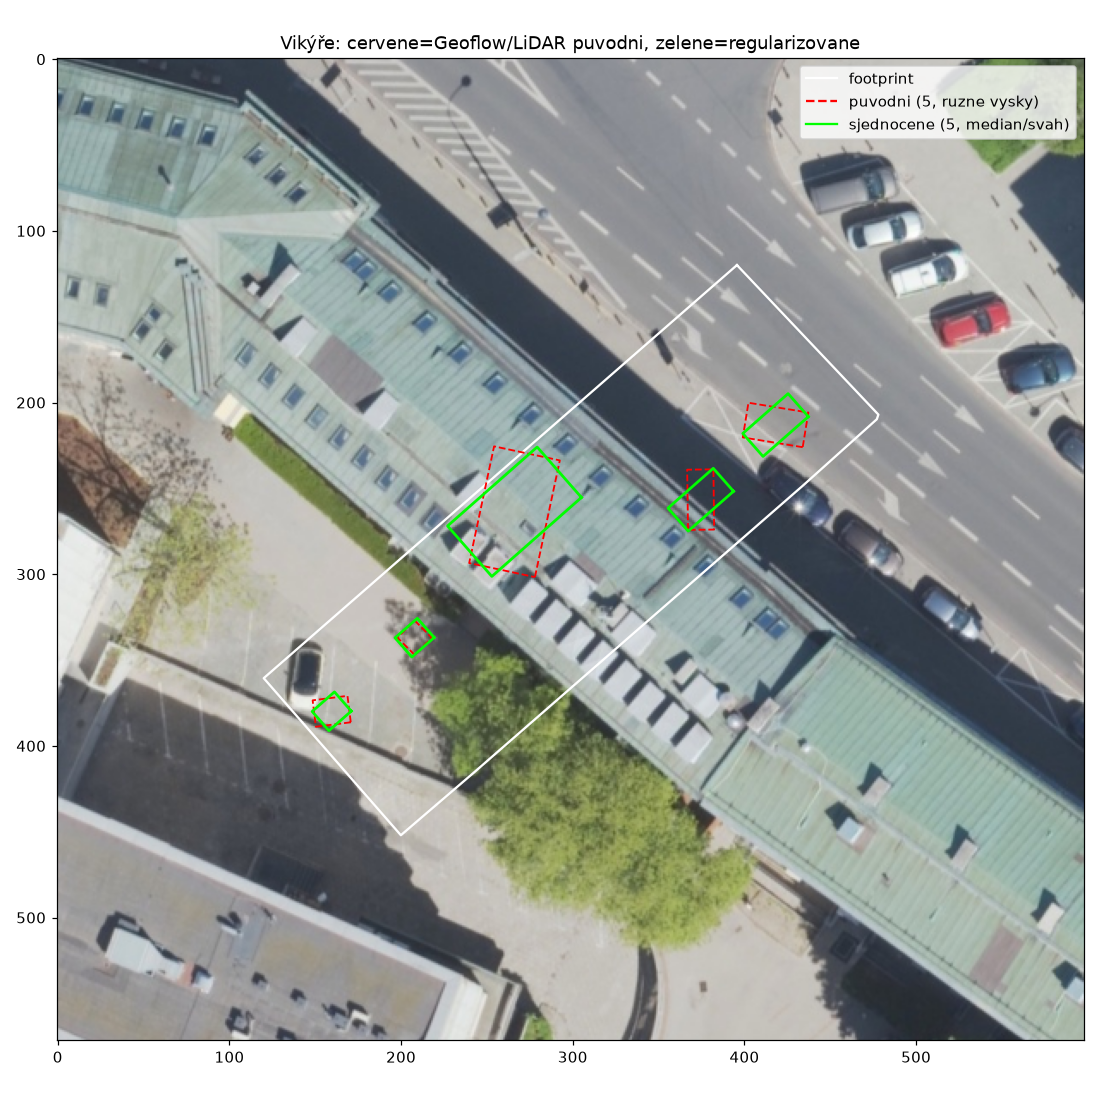
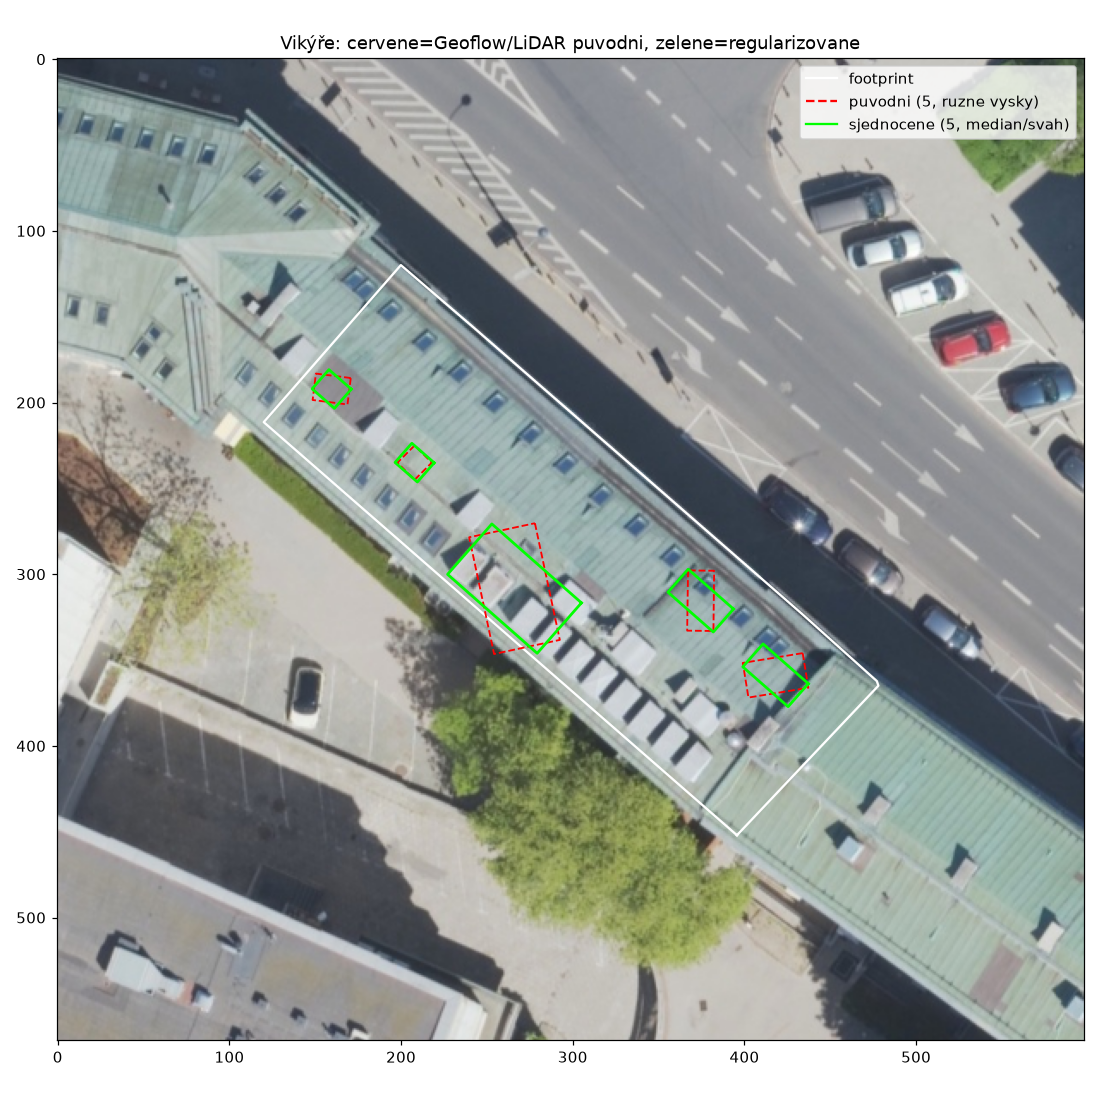
fix: mapovani ortofota radek 0 = sever (vegetace-dokaz), overlay sedi

diff --git a/scripts/pl_orto_fix.py b/scripts/pl_orto_fix.py
@@ -1,9 +1,10 @@
 # -*- coding: utf-8 -*-
-"""PL dum: overeni GeoTIFF okna + kontrola prekryvu s GT footprintem.
-Fakt: WMS TIFF ma stejny layout jako JPG (radek 0 = jih, NCC 0.9926).
-Mapovani C (overeno): sloupec u = vychod, radek v = sever odspodu.
-  E = E0 + u/W*SP, N = N0 + v/H*SP   (E0=636999, N0=488162, SP=200)
-Vystup: data_pl/warszawa_orto_200m.tfw (svetovy soubor, +y krok = jih-up),
+"""PL dum: sever-up GeoTIFF + kontrola prekryvu (OPRAVENO).
+WMS vraci radek 0 = SEVER (overeno vegetaci z LiDARu: tridy 3/4/5 sedi na
+zelenou jen pri v=(N1-N); puvodni predpoklad 'radek 0 = jih' byl spatne
+a druhe vlakno ho melo spatne taky (extent+origin jim patch zrcadlil).
+Mapovani: sloupec u=(E-E0)/SP*W, radek v=(N1-N)/SP*H (sever nahore).
+Vystup: data_pl/warszawa_orto_200m_north.tif (+ .tfw, standardni north-up),
         render/pl_orto_footprint.png (kontrola prekryvu).
 """
 import json
@@ -16,33 +17,34 @@ from PIL import Image
 from shapely import wkt
 
 FID = "ID-1465-38F62225-F3F5-F520-E053-CA2BA8C0BE14"
-E0, N0, SP = 636999.0, 488162.0, 200.0
+E0, N0, E1, N1, SP = 636999.0, 488162.0, 637199.0, 488362.0, 200.0
 
 img = np.array(Image.open("data_pl/warszawa_orto_200m.tif").convert("RGB"))
 H, W, _ = img.shape
+assert (W, H) == (2000, 2000), (W, H)
+north = img[::-1, :, :].copy()  # radek 0 = sever
+Image.fromarray(north).save("data_pl/warszawa_orto_200m_north.tif")
 px = SP / W
-assert W == H == 2000, (W, H)
-# south-up world file: radek roste k severu -> +y krok, pocatek = JZ roh
-with open("data_pl/warszawa_orto_200m.tfw", "w") as f:
-    f.write(f"{px:.6f}\n0.0\n0.0\n{px:.6f}\n{E0 + px/2:.3f}\n{N0 + px/2:.3f}\n")
-print("tfw zapsan (south-up, px=%.3f m)" % px)
+with open("data_pl/warszawa_orto_200m_north.tfw", "w") as f:
+    f.write(f"{px:.6f}\n0.0\n0.0\n{-px:.6f}\n{E0 + px/2:.3f}\n{N1 - px/2:.3f}\n")
+print("sever-up ulozen, px=%.3f m" % px)
 
 poly = wkt.loads(json.load(open("data_pl/warszawa_gt.json", encoding="utf-8"))[FID]["footprint_wkt"])
 x, y = poly.exterior.coords.xy
 u = (np.array(x) - E0) / SP * W
-v = (np.array(y) - N0) / SP * H
+v = (N1 - np.array(y)) / SP * H
 
 import os
-for f in ["data_pl/warszawa_orto_200m_north.tif", "data_pl/warszawa_orto_200m_north.tfw"]:
+for f in ["data_pl/warszawa_orto_200m.tfw"]:
     if os.path.exists(f):
         os.remove(f)
         print("smazan spatny soubor:", f)
 
 fig, a = plt.subplots(figsize=(10, 10))
-a.imshow(img)
+a.imshow(north)
 a.plot(u, v, "r-", lw=2, label="GT footprint")
 a.plot(u, v, "ro", ms=3)
-a.set_title("StandardResolution (radek 0 = jih) + GT footprint, mapovani C")
+a.set_title("StandardResolution sever-up + GT footprint (opraveno)")
 a.legend()
 plt.tight_layout()
 plt.savefig("render/pl_orto_footprint.png", dpi=110)

diff --git a/scripts/pl_dormers_fix.py b/scripts/pl_dormers_fix.py
@@ -25,7 +25,8 @@ from shapely import wkt
 from shapely.geometry import Point
 
 FID = "ID-1465-38F62225-F3F5-F520-E053-CA2BA8C0BE14"
-E0, N0, SP = 636999.0, 488162.0, 200.0  # okno TIFF/JPG, mapovani C
+E0, N0, E1, N1, SP = 636999.0, 488162.0, 637199.0, 488362.0, 200.0  # okno TIFF
+# WMS vraci radek 0 = SEVER (overeno vegetaci): v = (N1-N)/SP*H
 RNG = np.random.default_rng(7)
 
 
@@ -220,7 +221,7 @@ for s in (0, 1):
     for off in (-2.0, 0.0, 2.0):  # pas 4 m kolmo na okap = odolnost vuci zástinu
         pts = cc + np.outer(t, ex) + (s - 0.5) * 6.0 * perp + off * perp
         u = (pts[:, 0] - E0) / SP * W
-        v = (pts[:, 1] - N0) / SP * H
+        v = (N1 - pts[:, 1]) / SP * H  # radek 0 = sever
         m = (u >= 0) & (u < W) & (v >= 0) & (v < H)
         pr = np.full_like(t, np.nan)
         pr[m] = gray[v[m].astype(int).clip(0, H - 1), u[m].astype(int).clip(0, W - 1)]
@@ -343,18 +344,18 @@ for tag, (VV, FF) in {"lod22": (Vold, Fold), "fixed": (V2, faces)}.items():
         tag, rmse, rmsec, rmsed, cov.mean(), ("nm=%d" % nm) if tag == "fixed" else ""))
 print("zapsano", OUT, "verts=%d faces=%d" % (len(V2), len(faces)))
 
-# --- 5. Overlay: puvodni vs sjednocene --------------------------------------
+# --- 5. Overlay: puvodni vs sjednocene (sever nahore) ----------------------
 u0 = (minx - 12 - E0) / SP * W
-v0 = (miny - 12 - N0) / SP * H
 u1 = (maxx + 12 - E0) / SP * W
-v1 = (maxy + 12 - N0) / SP * H
+v0 = (N1 - (maxy + 12)) / SP * H  # severni okraj = horni radek
+v1 = (N1 - (miny - 12)) / SP * H
 crop = ort[int(v0):int(v1), int(u0):int(u1)].astype(np.uint8)
 fig, a = plt.subplots(figsize=(10, 10))
 a.imshow(crop, origin="upper")
 sx = (maxx + 12 - minx + 12) / crop.shape[1]
 sy = (maxy + 12 - miny + 12) / crop.shape[0]
 def P(E, N):
-    return (np.asarray(E) - minx + 12) / sx, (np.asarray(N) - miny + 12) / sy
+    return (np.asarray(E) - minx + 12) / sx, (maxy + 12 - np.asarray(N)) / sy
 x, y = poly.exterior.coords.xy
 a.plot(*P(np.array(x), np.array(y)), "w-", lw=1.5, label="footprint")
 for d in ds:

diff --git a/raw/pl/2026-11-22-vikyre.md b/raw/pl/2026-11-22-vikyre.md
@@ -8,15 +8,13 @@ N 488162-488362, 2000x2000 = 10 cm/px, stazeno 2026-11-22).
 
 ## Overene skutecnosti
 
-- TrueOrtho WMS (`PrawdziwaOrtofotomapa`) pro toto okno vraci prazdny (bily) snimek
-  v obou poradi os (400 px test, 1221 B). K dispozici je jen klasicke orto
-  (StandardResolution) = neni true-orto, pocitat se zástinem.
-- WMS 1.3.0 chce BBOX v poradi (N,E): (Nmin,Emin,Nmax,Emax). Overeno: poradi
-  (E,N) vraci les (jinou lokalitu), (N,E) vraci dum. Radek 0 = jih (mapovani C).
-- Stazeny TIFF ma stejny layout jako puvodni JPG (NCC 0.9926, offset dx=dy=0).
-- GT footprint sedi na strese s posunem ~2-4 m k JV = relief displacement
-  klasickeho orta (strecha vysoka ~19 m nad terenem). Z toho plyne: orto jen
-  relativne (rada/roztec/pocet), absolutni vysky z LiDARu.
+- WMS vraci radek 0 = SEVER (standard; overeno vegetaci z LiDARu: tridy 3/4/5
+  sedi na zelenou jen pri v=(N1-N)/SP*H; NCC s puvodnim JPG 0.9926).
+  OPRAVA 22.11. vecer: puvodni predpoklad 'radek 0 = jih' byl spatne; druhe
+  vlakno ho melo spatne taky, ale extent+origin jim patch zrcadlil zpet
+  (dve zrcadla = spravne umisteni). Spravne: u=(E-E0)/SP*W, v=(N1-N)/SP*H.
+- GT footprint po oprave sedi presne na segmentu s vikýři (viz
+  render/pl_orto_footprint.png, render/pl_dormers_overlay.png).
 - GML GT svahy (2 roviny, rmse 0.001) jsou ~5 m mimo soucasne mracno 2025
   (jen 1538/8803 bodu do 1 m od max-plocha; LiDAR zmax 130.93 vs GT zmax 127.82)
   = jina epocha/stav; jako geometricky prior NEPOUZITELNE.

diff --git a/wiki/log.md b/wiki/log.md
@@ -174,3 +174,9 @@
 - 5 vikýřů: snap na okap -41.3 deg + prave uhly; svah 0 (2, 126.25) / svah 1: velky 126.83 + 2 male 128.06 (deleni mezerou 1.23 m). Orto kontrola: 3+2 peaky vs 2+3 LiDAR (zbytek = flush okna).
 - Blender 5.3 boolean (cutter DIFFERENCE + hranol UNION, 5/5): model_bool.obj 465v/713f, nm=1 (1 vnitrni prekryv, vnejsi povrch cisty); bias/hranol <=0.25 m; RMSE jadra 0.522->0.564 (neutralni, zisk = regularita).
 - Skripty pl_orto_fix/pl_dormers_fix/pl_boolean/pl_bool_check (+pl_gt_slopes, pl_kplanes_test, pl_debug_resid); rendery render/pl_*.png; clanek wiki/pl/vikyre-orto.md + raw/pl/2026-11-22-vikyre.md.
+
+## [2026-11-22] PL | Oprava mapovani ortofota: radek 0 = sever (mela jsi pravdu)
+- render/pl_dormers_overlay.png byl zrcadlene (prekryv mimo vikýře): predpoklad 'radek 0 = jih' byl spatne.
+- Dukaz: vegetace z LiDARu (tr. 3/4/5, tisice bodu) sedi na zelenou v ortu jen pri v=(N1-N)/SP*H (stromy +14.5 vs -0.6). WMS vraci standardne radek 0 = sever.
+- Druhe vlakno melo stejnou chybu, ale extent+origin jim patch zrcadlil zpet (dve zrcadla), takze jejich overlay sedel. Po oprave sedi i nas (footprint presne na segmentu, vikýře na vikýřích).
+- Opraveno: scripts/pl_orto_fix.py (sever-up + .tfw), scripts/pl_dormers_fix.py (profil i overlay), rendery pre generovany; geometrie modelu (EPSG) se nezmenila.

diff --git a/wiki/pl/vikyre-orto.md b/wiki/pl/vikyre-orto.md
@@ -14,9 +14,11 @@ hranoly misto 'jehel'. Overeno na budove ID-1465 (Varšava).
 ## Co plati pro tento dum
 
 - Neni true-orto: TrueOrtho WMS pro okno vraci prazdno; pouzito klasicke orto
-  10 cm/px (WMS BBOX v poradi N,E; radek 0 = jih; NCC s puvodnim JPG 0.9926).
-- Klasicke orto ma zástin ~2-4 m (strecha ~19 m nad terenem): detekce z orta
-  se pouziva jen relativne, kotveni z LiDARu.
+  10 cm/px (WMS BBOX v poradi N,E; radek 0 = sever, overeno vegetaci).
+- Klasicke orto ma mirny zastin; detekce z orta se pouziva prevazne relativne
+  (rada/roztec/pocet), kotveni a vysky z LiDARu.
+- Prekryv render/pl_dormers_overlay.png sedi presne na vikýřích (opraveno
+  22.11. vecer: radek 0 = sever, ne jih).
 - GML GT svahy jsou ~5 m mimo mracno 2025 (jina epocha) — jako prior zamitnuty.
 - Vysledek: 5 vikýřů (2+3 po svazich, z toho 1 velky podtyp), bias <=0.25 m,
   RMSE jadra 0.52->0.56 m (strom venezmenen, regularita je zisk), nm=1 (vnitrni).
